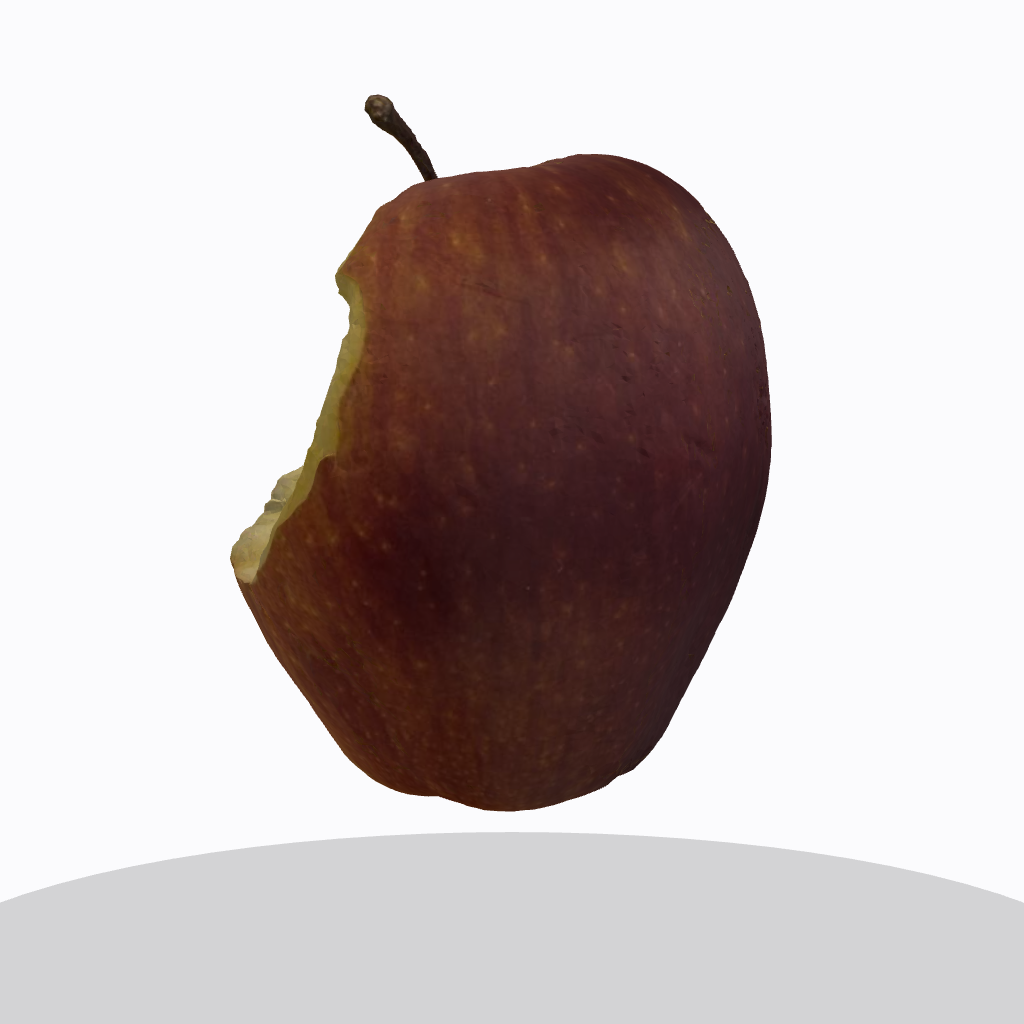
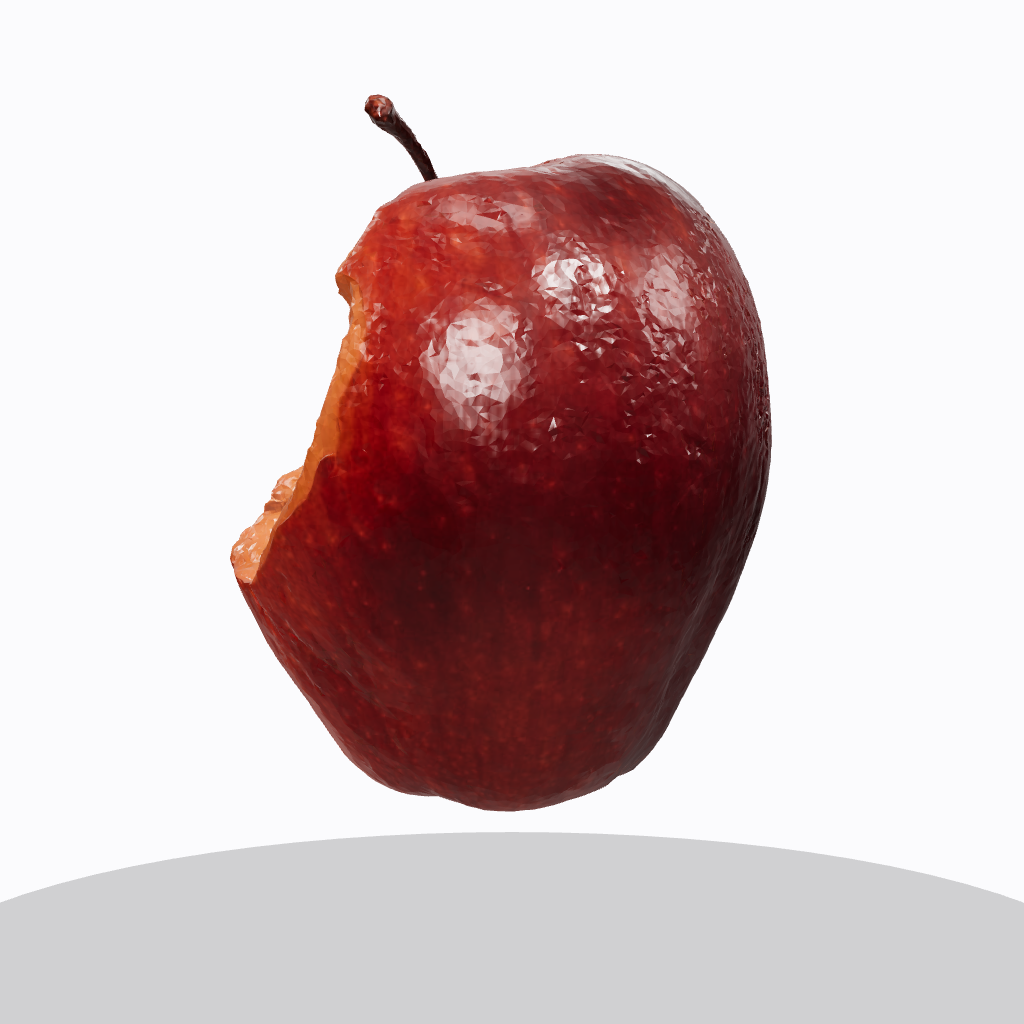
Make the 3D apple redder and shinier for live and stills.
Polish Eydeet GLTF materials (name-matched skin) with tunable saturation/roughness and studio env reflections; refresh leaderboard stills to match.

Changed region(s): [[0.2188, 0.125, 0.75, 0.8125], [0.3438, 0.0938, 0.4062, 0.1562], [0.7188, 0.4688, 0.75, 0.5]]

diff --git a/src/components/AppleScene.tsx b/src/components/AppleScene.tsx
@@ -4,6 +4,7 @@ import { Canvas, useFrame, useThree } from "@react-three/fiber";
 import {
   Center,
   ContactShadows,
+  Environment,
   OrbitControls,
   useGLTF,
 } from "@react-three/drei";
@@ -33,6 +34,26 @@ const TARGET_RADIUS = 0.92;
 const APPLE_FACE_YAW = Math.PI * 0.32;
 const APPLE_FACE_PITCH = 0.05;
 
+/**
+ * Tunables — richer, slightly wetter Eydeet apple skin (keep photoreal, not plastic).
+ * Shared conceptually with `scripts/export-apple-stills.mjs`.
+ *
+ * Note: Eydeet GLBs use white baseColor × albedo map and roughness=1. Skin polish
+ * is applied via name match + color multiply (not HSL on the white factor alone).
+ */
+/** Extra HSL saturation on the post-tint color (1 = none). */
+const SATURATION_BOOST = 1.2;
+/** Multiply GLTF roughness (source is ~1.0; lower = shinier). */
+const ROUGHNESS_SCALE = 0.28;
+/** Added metalness for a subtle wet sheen. */
+const METALNESS_BOOST = 0.08;
+/**
+ * Multiplied onto white baseColor so the albedo map reads redder/more saturated.
+ * Lower G/B = richer red from the texture.
+ */
+const RED_TINT = new THREE.Color(1.18, 0.52, 0.48);
+const ENV_INTENSITY = 1.55;
+
 function useHasGltfFrames() {
   const [available, setAvailable] = useState<boolean | null>(null);
   useEffect(() => {
@@ -60,9 +81,74 @@ function measureSphereRadius(root: THREE.Object3D): number {
 
 function appleColor(rot: boolean, quietPreview?: boolean) {
   const strength = rot ? 1 : quietPreview ? 0.35 : 0;
-  const base = new THREE.Color("#e23b2e");
+  const base = new THREE.Color("#e01820");
   const rotten = new THREE.Color("#5c3a1a");
   return base.clone().lerp(rotten, strength * 0.85);
+}
+
+function isAppleSkinColor(c: THREE.Color): boolean {
+  const hsl = { h: 0, s: 0, l: 0 };
+  c.getHSL(hsl);
+  const redHue = hsl.h < 0.08 || hsl.h > 0.92;
+  return redHue && hsl.s > 0.12 && hsl.l > 0.06 && hsl.l < 0.75;
+}
+
+function isAppleSkinMaterial(
+  mat: THREE.MeshStandardMaterial,
+  meshName: string,
+): boolean {
+  const label = `${mat.name || ""} ${meshName}`.toLowerCase();
+  if (/apple/.test(label)) return true;
+  if (mat.userData._origColor) {
+    return isAppleSkinColor(mat.userData._origColor as THREE.Color);
+  }
+  return false;
+}
+
+/** One-time polish of GLTF materials toward a juicier, shinier apple. */
+function polishAppleMaterials(root: THREE.Object3D) {
+  root.traverse((obj) => {
+    const mesh = obj as THREE.Mesh;
+    if (!mesh.isMesh) return;
+    const mats = Array.isArray(mesh.material) ? mesh.material : [mesh.material];
+    mats.forEach((mat) => {
+      const m = mat as THREE.MeshStandardMaterial;
+      if (!m?.color) return;
+      if (!m.userData._origColor) {
+        m.userData._origColor = m.color.clone();
+        m.userData._origRoughness = m.roughness ?? 0.5;
+        m.userData._origMetalness = m.metalness ?? 0;
+      }
+      const orig = m.userData._origColor as THREE.Color;
+      m.color.copy(orig);
+      const origRough = m.userData._origRoughness as number;
+      const origMetal = m.userData._origMetalness as number;
+
+      if (isAppleSkinMaterial(m, mesh.name || "")) {
+        // White base × albedo map: tint multiply saturates reds in the texture.
+        m.color.multiply(RED_TINT);
+        const hsl = { h: 0, s: 0, l: 0 };
+        m.color.getHSL(hsl);
+        // Keep lightness; push chroma for a juicier red without darkening.
+        m.color.setHSL(
+          hsl.h,
+          Math.min(1, hsl.s * SATURATION_BOOST),
+          Math.min(0.62, hsl.l * 1.05),
+        );
+        m.roughness = Math.max(0.18, origRough * ROUGHNESS_SCALE);
+        m.metalness = Math.min(0.2, origMetal + METALNESS_BOOST);
+        if ("envMapIntensity" in m) {
+          m.envMapIntensity = ENV_INTENSITY;
+        }
+      } else {
+        m.roughness = Math.max(0.28, origRough * 0.92);
+      }
+
+      m.userData._baseColor = m.color.clone();
+      m.userData._baseRoughness = m.roughness;
+      m.needsUpdate = true;
+    });
+  });
 }
 
 /** Procedural stop-motion apple — 10 discrete bite stages when glTF frames are missing. */
@@ -90,8 +176,8 @@ function ProceduralApple({
         <sphereGeometry args={[1, 48, 48]} />
         <meshStandardMaterial
           color={color}
-          roughness={0.45 + (rot ? 0.35 : 0)}
-          metalness={0.08}
+          roughness={0.32 + (rot ? 0.35 : 0)}
+          metalness={0.12}
         />
       </mesh>
 
@@ -176,6 +262,7 @@ function applyRotTint(
   rot: boolean,
   quietPreview?: boolean,
 ) {
+  polishAppleMaterials(root);
   root.traverse((obj) => {
     const mesh = obj as THREE.Mesh;
     if (!mesh.isMesh) return;
@@ -183,10 +270,6 @@ function applyRotTint(
     mats.forEach((mat) => {
       const m = mat as THREE.MeshStandardMaterial;
       if (!m?.color) return;
-      if (!m.userData._baseColor) {
-        m.userData._baseColor = m.color.clone();
-        m.userData._baseRoughness = m.roughness ?? 0.5;
-      }
       const base = m.userData._baseColor as THREE.Color;
       m.color.copy(base);
       m.roughness = m.userData._baseRoughness as number;
@@ -322,11 +405,12 @@ function SceneContent({
 }: AppleSceneProps & { useGltf: boolean; fitScale: number | null }) {
   return (
     <>
-      <ambientLight intensity={1.05} />
-      <directionalLight position={[5, 7, 4]} intensity={1.6} castShadow />
-      <directionalLight position={[-4, 3, -2]} intensity={0.35} />
-      <hemisphereLight args={["#ffffff", "#e8e8ed", 0.45]} />
+      <ambientLight intensity={0.95} />
+      <directionalLight position={[5, 7, 4]} intensity={2.05} castShadow />
+      <directionalLight position={[-4, 3, -2]} intensity={0.45} />
+      <hemisphereLight args={["#ffffff", "#e8e8ed", 0.38]} />
       <Suspense fallback={null}>
+        <Environment preset="studio" environmentIntensity={0.55} />
         {useGltf ? (
           fitScale != null ? (
             <GltfFrame
